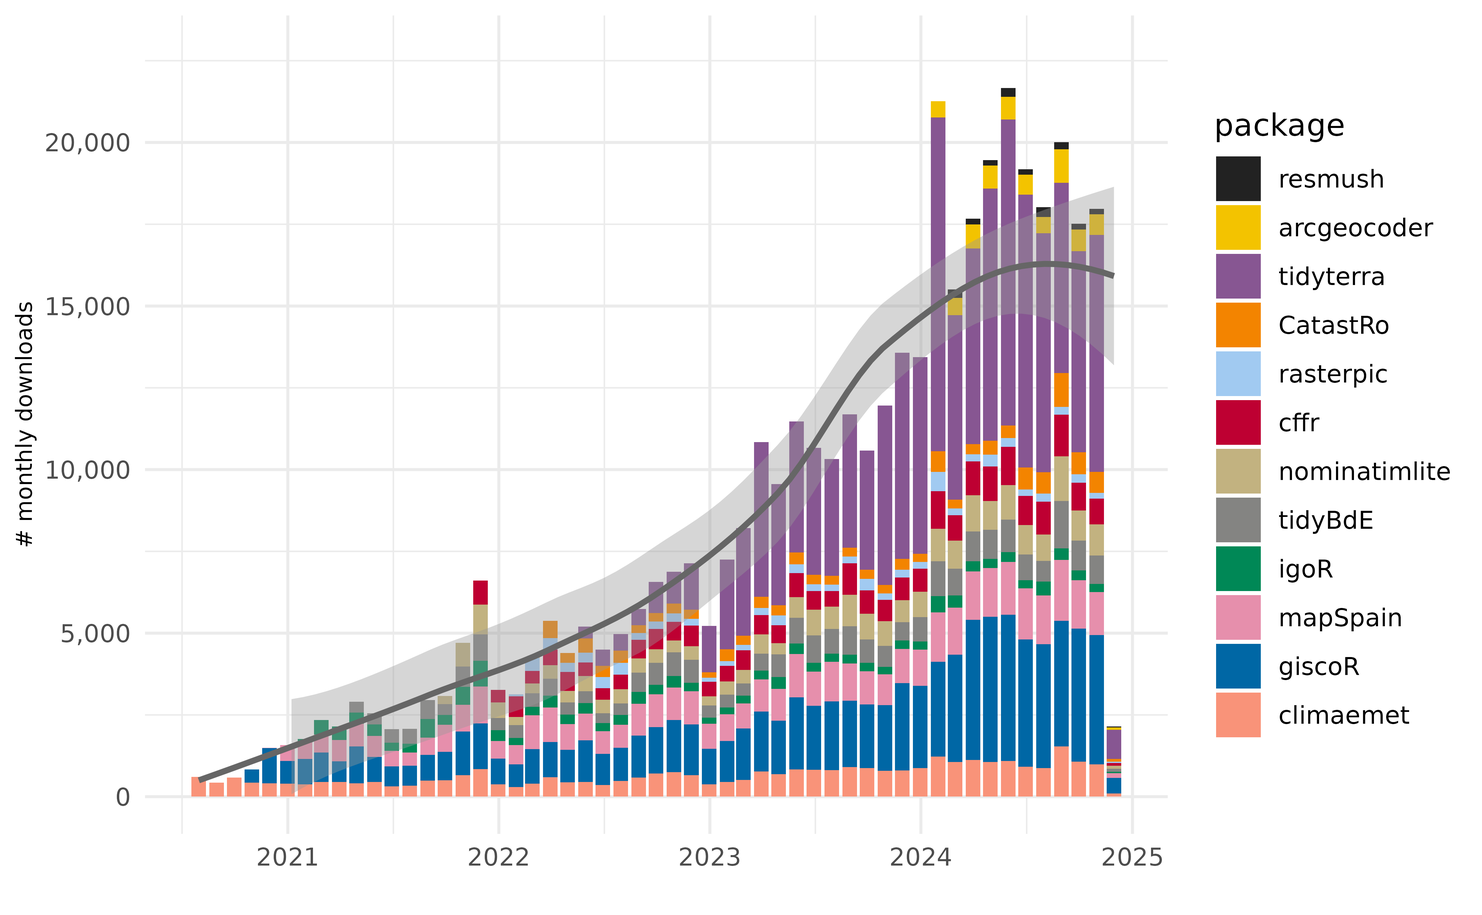
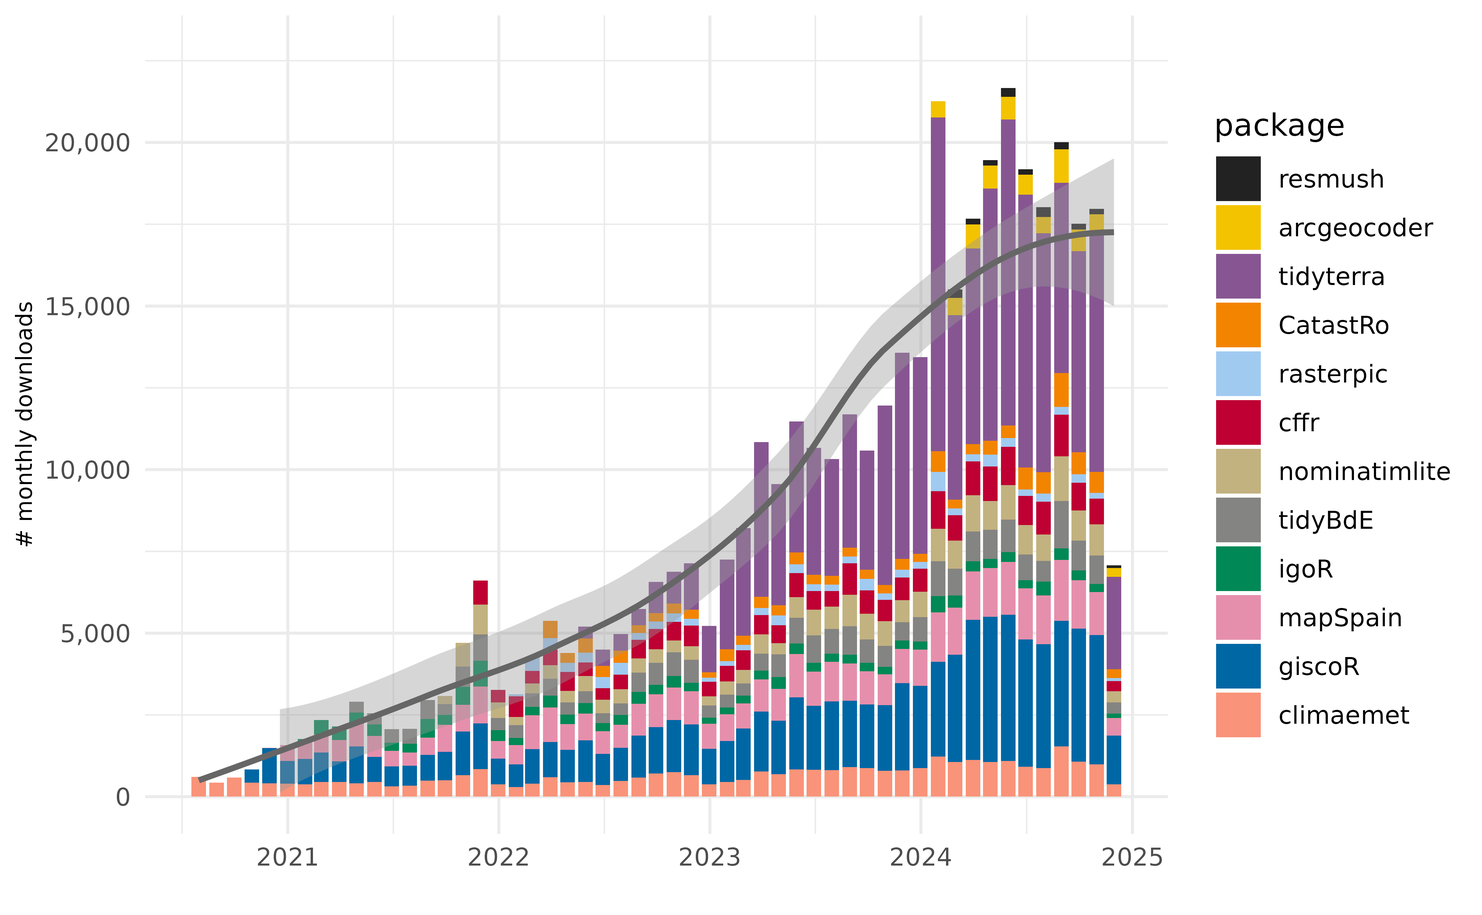
Built site for pkgdev@0.1.0.9060: 76b562e

diff --git a/articles/downloads.html b/articles/downloads.html
@@ -79,7 +79,7 @@
 
     
     
-<p><em>Updated: 06 Nov 2024</em></p>
+<p><em>Updated: 13 Nov 2024</em></p>
 <div class="section level2">
 <h2 id="on-cran">On CRAN<a class="anchor" aria-label="anchor" href="#on-cran"></a>
 </h2>
@@ -98,7 +98,7 @@
 <h3 id="download-data">Download data<a class="anchor" aria-label="anchor" href="#download-data"></a>
 </h3>
 <div class="reactable html-widget html-fill-item" id="cran-dwn" style="width:auto;height:auto;"></div>
-<script type="application/json" data-for="cran-dwn">{"x":{"tag":{"name":"Reactable","attribs":{"data":{"package":["tidyterra","giscoR","mapSpain","cffr","arcgeocoder","climaemet","nominatimlite","tidyBdE","CatastRo","igoR","rasterpic","resmush"],"on CRAN":["2022-05-24","2020-10-13","2020-11-30","2021-11-04","2024-01-15","2020-07-07","2021-09-16","2021-04-08","2022-02-28","2021-01-27","2022-01-27","2024-02-02"],"Latest CRAN Version":["2024-06-08","2024-08-28","2024-08-26","2024-08-16","2024-03-21","2024-08-28","2024-07-19","2024-08-26","2024-06-02","2024-02-05","2024-04-12","2024-07-19"],"daily avg.":[148,60.5,32.3,22.8,22.5,22,21.5,20.9,12.8,10.7,8.5,6.9],"last day":[394,137,27,21,12,17,22,11,10,7,8,6],"last week":[1470,772,274,162,153,219,196,194,148,64,54,51],"last month":[7026,3782,1231,725,602,920,906,784,590,255,177,178],"last year":[86028,43989,17297,11289,6669,12535,11268,10533,6280,3850,3196,1927]},"columns":[{"id":"package","name":"package","type":"character","minWidth":150,"vAlign":"center","footerStyle":{"fontWeight":"bold"},"cell":[{"name":"div","attribs":{},"children":[{"name":"div","attribs":{"style":{"fontWeight":"bold"}},"children":[{"name":"a","attribs":{"href":"https://CRAN.R-project.org/package=tidyterra","target":"_blank"},"children":["tidyterra"]}]},{"name":"div","attribs":{"style":{"fontSize":"75%"}},"children":[{"name":"img","attribs":{"src":"https://badges.cranchecks.info/worst/tidyterra.svg","alt":"tidyterra"},"children":[]}]}]},{"name":"div","attribs":{},"children":[{"name":"div","attribs":{"style":{"fontWeight":"bold"}},"children":[{"name":"a","attribs":{"href":"https://CRAN.R-project.org/package=giscoR","target":"_blank"},"children":["giscoR"]}]},{"name":"div","attribs":{"style":{"fontSize":"75%"}},"children":[{"name":"img","attribs":{"src":"https://badges.cranchecks.info/worst/giscoR.svg","alt":"giscoR"},"children":[]}]}]},{"name":"div","attribs":{},"children":[{"name":"div","attribs":{"style":{"fontWeight":"bold"}},"children":[{"name":"a","attribs":{"href":"https://CRAN.R-project.org/package=mapSpain","target":"_blank"},"children":["mapSpain"]}]},{"name":"div","attribs":{"style":{"fontSize":"75%"}},"children":[{"name":"img","attribs":{"src":"https://badges.cranchecks.info/worst/mapSpain.svg","alt":"mapSpain"},"children":[]}]}]},{"name":"div","attribs":{},"children":[{"name":"div","attribs":{"style":{"fontWeight":"bold"}},"children":[{"name":"a","attribs":{"href":"https://CRAN.R-project.org/package=cffr","target":"_blank"},"children":["cffr"]}]},{"name":"div","attribs":{"style":{"fontSize":"75%"}},"children":[{"name":"img","attribs":{"src":"https://badges.cranchecks.info/worst/cffr.svg","alt":"cffr"},"children":[]}]}]},{"name":"div","attribs":{},"children":[{"name":"div","attribs":{"style":{"fontWeight":"bold"}},"children":[{"name":"a","attribs":{"href":"https://CRAN.R-project.org/package=arcgeocoder","target":"_blank"},"children":["arcgeocoder"]}]},{"name":"div","attribs":{"style":{"fontSize":"75%"}},"children":[{"name":"img","attribs":{"src":"https://badges.cranchecks.info/worst/arcgeocoder.svg","alt":"arcgeocoder"},"children":[]}]}]},{"name":"div","attribs":{},"children":[{"name":"div","attribs":{"style":{"fontWeight":"bold"}},"children":[{"name":"a","attribs":{"href":"https://CRAN.R-project.org/package=climaemet","target":"_blank"},"children":["climaemet"]}]},{"name":"div","attribs":{"style":{"fontSize":"75%"}},"children":[{"name":"img","attribs":{"src":"https://badges.cranchecks.info/worst/climaemet.svg","alt":"climaemet"},"children":[]}]}]},{"name":"div","attribs":{},"children":[{"name":"div","attribs":{"style":{"fontWeight":"bold"}},"children":[{"name":"a","attribs":{"href":"https://CRAN.R-project.org/package=nominatimlite","target":"_blank"},"children":["nominatimlite"]}]},{"name":"div","attribs":{"style":{"fontSize":"75%"}},"children":[{"name":"img","attribs":{"src":"https://badges.cranchecks.info/worst/nominatimlite.svg","alt":"nominatimlite"},"children":[]}]}]},{"name":"div","attribs":{},"children":[{"name":"div","attribs":{"style":{"fontWeight":"bold"}},"children":[{"name":"a","attribs":{"href":"https://CRAN.R-project.org/package=tidyBdE","target":"_blank"},"children":["tidyBdE"]}]},{"name":"div","attribs":{"style":{"fontSize":"75%"}},"children":[{"name":"img","attribs":{"src":"https://badges.cranchecks.info/worst/tidyBdE.svg","alt":"tidyBdE"},"children":[]}]}]},{"name":"div","attribs":{},"children":[{"name":"div","attribs":{"style":{"fontWeight":"bold"}},"children":[{"name":"a","attribs":{"href":"https://CRAN.R-project.org/package=CatastRo","target":"_blank"},"children":["CatastRo"]}]},{"name":"div","attribs":{"style":{"fontSize":"75%"}},"children":[{"name":"img","attribs":{"src":"https://badges.cranchecks.info/worst/CatastRo.svg","alt":"CatastRo"},"children":[]}]}]},{"name":"div","attribs":{},"children":[{"name":"div","attribs":{"style":{"fontWeight":"bold"}},"children":[{"name":"a","attribs":{"href":"https://CRAN.R-project.org/package=igoR","target":"_blank"},"children":["igoR"]}]},{"name":"div","attribs":{"style":{"fontSize":"75%"}},"children":[{"name":"img","attribs":{"src":"https://badges.cranchecks.info/worst/igoR.svg","alt":"igoR"},"children":[]}]}]},{"name":"div","attribs":{},"children":[{"name":"div","attribs":{"style":{"fontWeight":"bold"}},"children":[{"name":"a","attribs":{"href":"https://CRAN.R-project.org/package=rasterpic","target":"_blank"},"children":["rasterpic"]}]},{"name":"div","attribs":{"style":{"fontSize":"75%"}},"children":[{"name":"img","attribs":{"src":"https://badges.cranchecks.info/worst/rasterpic.svg","alt":"rasterpic"},"children":[]}]}]},{"name":"div","attribs":{},"children":[{"name":"div","attribs":{"style":{"fontWeight":"bold"}},"children":[{"name":"a","attribs":{"href":"https://CRAN.R-project.org/package=resmush","target":"_blank"},"children":["resmush"]}]},{"name":"div","attribs":{"style":{"fontSize":"75%"}},"children":[{"name":"img","attribs":{"src":"https://badges.cranchecks.info/worst/resmush.svg","alt":"resmush"},"children":[]}]}]}],"rowHeader":true,"align":"left","sticky":"left"},{"id":"on CRAN","name":"on CRAN","type":"Date","minWidth":150,"vAlign":"center","footerStyle":{"fontWeight":"bold"}},{"id":"Latest CRAN Version","name":"Latest CRAN Version","type":"Date","minWidth":150,"vAlign":"center","footerStyle":{"fontWeight":"bold"}},{"id":"daily avg.","name":"daily avg.","type":"numeric","footer":"389,4","minWidth":150,"vAlign":"center","footerStyle":{"fontWeight":"bold"},"format":{"cell":{"separators":true},"aggregated":{"separators":true}}},{"id":"last day","name":"last day","type":"numeric","footer":"672","minWidth":150,"vAlign":"center","footerStyle":{"fontWeight":"bold"},"format":{"cell":{"separators":true},"aggregated":{"separators":true}}},{"id":"last week","name":"last week","type":"numeric","footer":"3.757","minWidth":150,"vAlign":"center","footerStyle":{"fontWeight":"bold"},"format":{"cell":{"separators":true},"aggregated":{"separators":true}}},{"id":"last month","name":"last month","type":"numeric","footer":"17.176","minWidth":150,"vAlign":"center","footerStyle":{"fontWeight":"bold"},"format":{"cell":{"separators":true},"aggregated":{"separators":true}}},{"id":"last year","name":"last year","type":"numeric","footer":"214.861","minWidth":150,"vAlign":"center","footerStyle":{"fontWeight":"bold"},"format":{"cell":{"separators":true},"aggregated":{"separators":true}}}],"filterable":true,"searchable":true,"showPageSizeOptions":true,"paginationType":"jump","striped":true,"elementId":"cran-dwn","dataKey":"2528fccbb251436e26b4ee69fa43b4ad"},"children":[]},"class":"reactR_markup"},"evals":[],"jsHooks":[]}</script>
+<script type="application/json" data-for="cran-dwn">{"x":{"tag":{"name":"Reactable","attribs":{"data":{"package":["tidyterra","giscoR","mapSpain","cffr","arcgeocoder","climaemet","nominatimlite","tidyBdE","CatastRo","igoR","rasterpic","resmush"],"on CRAN":["2022-05-24","2020-10-13","2020-11-30","2021-11-04","2024-01-15","2020-07-07","2021-09-16","2021-04-08","2022-02-28","2021-01-27","2022-01-27","2024-02-02"],"Latest CRAN Version":["2024-06-08","2024-08-28","2024-08-26","2024-08-16","2024-03-21","2024-08-28","2024-07-19","2024-08-26","2024-06-02","2024-02-05","2024-04-12","2024-07-19"],"daily avg.":[149,60.9,32.4,22.8,22.6,22.1,21.6,20.9,12.9,10.7,8.5,7],"last day":[274,187,100,41,49,63,61,62,48,16,5,13],"last week":[1577,787,309,207,138,211,182,180,142,76,48,51],"last month":[7385,3947,1371,803,665,980,931,870,653,292,205,207],"last year":[86636,44428,17476,11379,6858,12647,11375,10670,6399,3890,3206,1988]},"columns":[{"id":"package","name":"package","type":"character","minWidth":150,"vAlign":"center","footerStyle":{"fontWeight":"bold"},"cell":[{"name":"div","attribs":{},"children":[{"name":"div","attribs":{"style":{"fontWeight":"bold"}},"children":[{"name":"a","attribs":{"href":"https://CRAN.R-project.org/package=tidyterra","target":"_blank"},"children":["tidyterra"]}]},{"name":"div","attribs":{"style":{"fontSize":"75%"}},"children":[{"name":"img","attribs":{"src":"https://badges.cranchecks.info/worst/tidyterra.svg","alt":"tidyterra"},"children":[]}]}]},{"name":"div","attribs":{},"children":[{"name":"div","attribs":{"style":{"fontWeight":"bold"}},"children":[{"name":"a","attribs":{"href":"https://CRAN.R-project.org/package=giscoR","target":"_blank"},"children":["giscoR"]}]},{"name":"div","attribs":{"style":{"fontSize":"75%"}},"children":[{"name":"img","attribs":{"src":"https://badges.cranchecks.info/worst/giscoR.svg","alt":"giscoR"},"children":[]}]}]},{"name":"div","attribs":{},"children":[{"name":"div","attribs":{"style":{"fontWeight":"bold"}},"children":[{"name":"a","attribs":{"href":"https://CRAN.R-project.org/package=mapSpain","target":"_blank"},"children":["mapSpain"]}]},{"name":"div","attribs":{"style":{"fontSize":"75%"}},"children":[{"name":"img","attribs":{"src":"https://badges.cranchecks.info/worst/mapSpain.svg","alt":"mapSpain"},"children":[]}]}]},{"name":"div","attribs":{},"children":[{"name":"div","attribs":{"style":{"fontWeight":"bold"}},"children":[{"name":"a","attribs":{"href":"https://CRAN.R-project.org/package=cffr","target":"_blank"},"children":["cffr"]}]},{"name":"div","attribs":{"style":{"fontSize":"75%"}},"children":[{"name":"img","attribs":{"src":"https://badges.cranchecks.info/worst/cffr.svg","alt":"cffr"},"children":[]}]}]},{"name":"div","attribs":{},"children":[{"name":"div","attribs":{"style":{"fontWeight":"bold"}},"children":[{"name":"a","attribs":{"href":"https://CRAN.R-project.org/package=arcgeocoder","target":"_blank"},"children":["arcgeocoder"]}]},{"name":"div","attribs":{"style":{"fontSize":"75%"}},"children":[{"name":"img","attribs":{"src":"https://badges.cranchecks.info/worst/arcgeocoder.svg","alt":"arcgeocoder"},"children":[]}]}]},{"name":"div","attribs":{},"children":[{"name":"div","attribs":{"style":{"fontWeight":"bold"}},"children":[{"name":"a","attribs":{"href":"https://CRAN.R-project.org/package=climaemet","target":"_blank"},"children":["climaemet"]}]},{"name":"div","attribs":{"style":{"fontSize":"75%"}},"children":[{"name":"img","attribs":{"src":"https://badges.cranchecks.info/worst/climaemet.svg","alt":"climaemet"},"children":[]}]}]},{"name":"div","attribs":{},"children":[{"name":"div","attribs":{"style":{"fontWeight":"bold"}},"children":[{"name":"a","attribs":{"href":"https://CRAN.R-project.org/package=nominatimlite","target":"_blank"},"children":["nominatimlite"]}]},{"name":"div","attribs":{"style":{"fontSize":"75%"}},"children":[{"name":"img","attribs":{"src":"https://badges.cranchecks.info/worst/nominatimlite.svg","alt":"nominatimlite"},"children":[]}]}]},{"name":"div","attribs":{},"children":[{"name":"div","attribs":{"style":{"fontWeight":"bold"}},"children":[{"name":"a","attribs":{"href":"https://CRAN.R-project.org/package=tidyBdE","target":"_blank"},"children":["tidyBdE"]}]},{"name":"div","attribs":{"style":{"fontSize":"75%"}},"children":[{"name":"img","attribs":{"src":"https://badges.cranchecks.info/worst/tidyBdE.svg","alt":"tidyBdE"},"children":[]}]}]},{"name":"div","attribs":{},"children":[{"name":"div","attribs":{"style":{"fontWeight":"bold"}},"children":[{"name":"a","attribs":{"href":"https://CRAN.R-project.org/package=CatastRo","target":"_blank"},"children":["CatastRo"]}]},{"name":"div","attribs":{"style":{"fontSize":"75%"}},"children":[{"name":"img","attribs":{"src":"https://badges.cranchecks.info/worst/CatastRo.svg","alt":"CatastRo"},"children":[]}]}]},{"name":"div","attribs":{},"children":[{"name":"div","attribs":{"style":{"fontWeight":"bold"}},"children":[{"name":"a","attribs":{"href":"https://CRAN.R-project.org/package=igoR","target":"_blank"},"children":["igoR"]}]},{"name":"div","attribs":{"style":{"fontSize":"75%"}},"children":[{"name":"img","attribs":{"src":"https://badges.cranchecks.info/worst/igoR.svg","alt":"igoR"},"children":[]}]}]},{"name":"div","attribs":{},"children":[{"name":"div","attribs":{"style":{"fontWeight":"bold"}},"children":[{"name":"a","attribs":{"href":"https://CRAN.R-project.org/package=rasterpic","target":"_blank"},"children":["rasterpic"]}]},{"name":"div","attribs":{"style":{"fontSize":"75%"}},"children":[{"name":"img","attribs":{"src":"https://badges.cranchecks.info/worst/rasterpic.svg","alt":"rasterpic"},"children":[]}]}]},{"name":"div","attribs":{},"children":[{"name":"div","attribs":{"style":{"fontWeight":"bold"}},"children":[{"name":"a","attribs":{"href":"https://CRAN.R-project.org/package=resmush","target":"_blank"},"children":["resmush"]}]},{"name":"div","attribs":{"style":{"fontSize":"75%"}},"children":[{"name":"img","attribs":{"src":"https://badges.cranchecks.info/worst/resmush.svg","alt":"resmush"},"children":[]}]}]}],"rowHeader":true,"align":"left","sticky":"left"},{"id":"on CRAN","name":"on CRAN","type":"Date","minWidth":150,"vAlign":"center","footerStyle":{"fontWeight":"bold"}},{"id":"Latest CRAN Version","name":"Latest CRAN Version","type":"Date","minWidth":150,"vAlign":"center","footerStyle":{"fontWeight":"bold"}},{"id":"daily avg.","name":"daily avg.","type":"numeric","footer":"391,4","minWidth":150,"vAlign":"center","footerStyle":{"fontWeight":"bold"},"format":{"cell":{"separators":true},"aggregated":{"separators":true}}},{"id":"last day","name":"last day","type":"numeric","footer":"919","minWidth":150,"vAlign":"center","footerStyle":{"fontWeight":"bold"},"format":{"cell":{"separators":true},"aggregated":{"separators":true}}},{"id":"last week","name":"last week","type":"numeric","footer":"3.908","minWidth":150,"vAlign":"center","footerStyle":{"fontWeight":"bold"},"format":{"cell":{"separators":true},"aggregated":{"separators":true}}},{"id":"last month","name":"last month","type":"numeric","footer":"18.309","minWidth":150,"vAlign":"center","footerStyle":{"fontWeight":"bold"},"format":{"cell":{"separators":true},"aggregated":{"separators":true}}},{"id":"last year","name":"last year","type":"numeric","footer":"216.952","minWidth":150,"vAlign":"center","footerStyle":{"fontWeight":"bold"},"format":{"cell":{"separators":true},"aggregated":{"separators":true}}}],"filterable":true,"searchable":true,"showPageSizeOptions":true,"paginationType":"jump","striped":true,"elementId":"cran-dwn","dataKey":"40b60eeac2290aaf8197522417feb65a"},"children":[]},"class":"reactR_markup"},"evals":[],"jsHooks":[]}</script>
 </div>
 </div>
 <div class="section level2">
@@ -107,7 +107,7 @@
 <p>Downloads and data available of my packages from <a href="https://packagemanager.posit.co/client/#/" class="external-link">Posit Package
 Manager</a>.</p>
 <div class="reactable html-widget html-fill-item" id="posit-dwn" style="width:auto;height:auto;"></div>
-<script type="application/json" data-for="posit-dwn">{"x":{"tag":{"name":"Reactable","attribs":{"data":{"package":["tidyterra","giscoR","cffr","nominatimlite","mapSpain","resmush","arcgeocoder","climaemet","CatastRo","rasterpic","tidyBdE","igoR"],"Latest Version":["0.6.1","0.6.0","1.1.1","0.4.1","0.9.2","0.2.0","0.2.0","1.4.0","0.4.0","0.2.5","0.3.7","0.2.0"],"Version in CRAN":["2024-06-08","2024-08-28","2024-08-16","2024-07-19","2024-08-26","2024-07-19","2024-03-21","2024-08-28","2024-06-02","2024-04-12","2024-08-26","2024-02-05"],"Package Size":["1.87 Mb","1.26 Mb","0.58 Mb","0.12 Mb","2.34 Mb","0.8 Mb","0.34 Mb","0.77 Mb","2.21 Mb","0.98 Mb","0.24 Mb","0.99 Mb"],"Downloads (Last month)":[1265,573,528,194,119,58,45,39,36,34,31,27]},"columns":[{"id":"package","name":"package","type":"character","minWidth":150,"vAlign":"center","footerStyle":{"fontWeight":"bold"},"cell":[{"name":"div","attribs":{"style":{"fontWeight":"bold"}},"children":[{"name":"a","attribs":{"href":"https://packagemanager.posit.co/client/#/repos/cran/packages/tidyterra/overview?search=tidyterra#package-details","target":"_blank"},"children":["tidyterra"]}]},{"name":"div","attribs":{"style":{"fontWeight":"bold"}},"children":[{"name":"a","attribs":{"href":"https://packagemanager.posit.co/client/#/repos/cran/packages/giscoR/overview?search=giscoR#package-details","target":"_blank"},"children":["giscoR"]}]},{"name":"div","attribs":{"style":{"fontWeight":"bold"}},"children":[{"name":"a","attribs":{"href":"https://packagemanager.posit.co/client/#/repos/cran/packages/cffr/overview?search=cffr#package-details","target":"_blank"},"children":["cffr"]}]},{"name":"div","attribs":{"style":{"fontWeight":"bold"}},"children":[{"name":"a","attribs":{"href":"https://packagemanager.posit.co/client/#/repos/cran/packages/nominatimlite/overview?search=nominatimlite#package-details","target":"_blank"},"children":["nominatimlite"]}]},{"name":"div","attribs":{"style":{"fontWeight":"bold"}},"children":[{"name":"a","attribs":{"href":"https://packagemanager.posit.co/client/#/repos/cran/packages/mapSpain/overview?search=mapSpain#package-details","target":"_blank"},"children":["mapSpain"]}]},{"name":"div","attribs":{"style":{"fontWeight":"bold"}},"children":[{"name":"a","attribs":{"href":"https://packagemanager.posit.co/client/#/repos/cran/packages/resmush/overview?search=resmush#package-details","target":"_blank"},"children":["resmush"]}]},{"name":"div","attribs":{"style":{"fontWeight":"bold"}},"children":[{"name":"a","attribs":{"href":"https://packagemanager.posit.co/client/#/repos/cran/packages/arcgeocoder/overview?search=arcgeocoder#package-details","target":"_blank"},"children":["arcgeocoder"]}]},{"name":"div","attribs":{"style":{"fontWeight":"bold"}},"children":[{"name":"a","attribs":{"href":"https://packagemanager.posit.co/client/#/repos/cran/packages/climaemet/overview?search=climaemet#package-details","target":"_blank"},"children":["climaemet"]}]},{"name":"div","attribs":{"style":{"fontWeight":"bold"}},"children":[{"name":"a","attribs":{"href":"https://packagemanager.posit.co/client/#/repos/cran/packages/CatastRo/overview?search=CatastRo#package-details","target":"_blank"},"children":["CatastRo"]}]},{"name":"div","attribs":{"style":{"fontWeight":"bold"}},"children":[{"name":"a","attribs":{"href":"https://packagemanager.posit.co/client/#/repos/cran/packages/rasterpic/overview?search=rasterpic#package-details","target":"_blank"},"children":["rasterpic"]}]},{"name":"div","attribs":{"style":{"fontWeight":"bold"}},"children":[{"name":"a","attribs":{"href":"https://packagemanager.posit.co/client/#/repos/cran/packages/tidyBdE/overview?search=tidyBdE#package-details","target":"_blank"},"children":["tidyBdE"]}]},{"name":"div","attribs":{"style":{"fontWeight":"bold"}},"children":[{"name":"a","attribs":{"href":"https://packagemanager.posit.co/client/#/repos/cran/packages/igoR/overview?search=igoR#package-details","target":"_blank"},"children":["igoR"]}]}],"rowHeader":true,"align":"left","sticky":"left"},{"id":"Latest Version","name":"Latest Version","type":"character","minWidth":150,"vAlign":"center","footerStyle":{"fontWeight":"bold"}},{"id":"Version in CRAN","name":"Version in CRAN","type":"Date","minWidth":150,"vAlign":"center","footerStyle":{"fontWeight":"bold"}},{"id":"Package Size","name":"Package Size","type":"character","minWidth":150,"vAlign":"center","footerStyle":{"fontWeight":"bold"}},{"id":"Downloads (Last month)","name":"Downloads (Last month)","type":"numeric","footer":"2.949","minWidth":150,"vAlign":"center","footerStyle":{"fontWeight":"bold"},"format":{"cell":{"separators":true},"aggregated":{"separators":true}}}],"filterable":true,"searchable":true,"showPageSizeOptions":true,"paginationType":"jump","striped":true,"elementId":"posit-dwn","dataKey":"b4140fcdbc11a38ccfc6063a9ceb6bc9"},"children":[]},"class":"reactR_markup"},"evals":[],"jsHooks":[]}</script>
+<script type="application/json" data-for="posit-dwn">{"x":{"tag":{"name":"Reactable","attribs":{"data":{"package":["tidyterra","cffr","giscoR","nominatimlite","mapSpain","resmush","arcgeocoder","climaemet","tidyBdE","CatastRo","rasterpic","igoR"],"Latest Version":["0.6.1","1.1.1","0.6.0","0.4.1","0.9.2","0.2.0","0.2.0","1.4.0","0.3.7","0.4.0","0.2.5","0.2.0"],"Version in CRAN":["2024-06-08","2024-08-16","2024-08-28","2024-07-19","2024-08-26","2024-07-19","2024-03-21","2024-08-28","2024-08-26","2024-06-02","2024-04-12","2024-02-05"],"Package Size":["1.87 Mb","0.58 Mb","1.26 Mb","0.12 Mb","2.34 Mb","0.8 Mb","0.34 Mb","0.77 Mb","0.24 Mb","2.21 Mb","0.98 Mb","0.99 Mb"],"Downloads (Last month)":[1272,587,551,189,108,57,42,34,30,30,30,24]},"columns":[{"id":"package","name":"package","type":"character","minWidth":150,"vAlign":"center","footerStyle":{"fontWeight":"bold"},"cell":[{"name":"div","attribs":{"style":{"fontWeight":"bold"}},"children":[{"name":"a","attribs":{"href":"https://packagemanager.posit.co/client/#/repos/cran/packages/tidyterra/overview?search=tidyterra#package-details","target":"_blank"},"children":["tidyterra"]}]},{"name":"div","attribs":{"style":{"fontWeight":"bold"}},"children":[{"name":"a","attribs":{"href":"https://packagemanager.posit.co/client/#/repos/cran/packages/cffr/overview?search=cffr#package-details","target":"_blank"},"children":["cffr"]}]},{"name":"div","attribs":{"style":{"fontWeight":"bold"}},"children":[{"name":"a","attribs":{"href":"https://packagemanager.posit.co/client/#/repos/cran/packages/giscoR/overview?search=giscoR#package-details","target":"_blank"},"children":["giscoR"]}]},{"name":"div","attribs":{"style":{"fontWeight":"bold"}},"children":[{"name":"a","attribs":{"href":"https://packagemanager.posit.co/client/#/repos/cran/packages/nominatimlite/overview?search=nominatimlite#package-details","target":"_blank"},"children":["nominatimlite"]}]},{"name":"div","attribs":{"style":{"fontWeight":"bold"}},"children":[{"name":"a","attribs":{"href":"https://packagemanager.posit.co/client/#/repos/cran/packages/mapSpain/overview?search=mapSpain#package-details","target":"_blank"},"children":["mapSpain"]}]},{"name":"div","attribs":{"style":{"fontWeight":"bold"}},"children":[{"name":"a","attribs":{"href":"https://packagemanager.posit.co/client/#/repos/cran/packages/resmush/overview?search=resmush#package-details","target":"_blank"},"children":["resmush"]}]},{"name":"div","attribs":{"style":{"fontWeight":"bold"}},"children":[{"name":"a","attribs":{"href":"https://packagemanager.posit.co/client/#/repos/cran/packages/arcgeocoder/overview?search=arcgeocoder#package-details","target":"_blank"},"children":["arcgeocoder"]}]},{"name":"div","attribs":{"style":{"fontWeight":"bold"}},"children":[{"name":"a","attribs":{"href":"https://packagemanager.posit.co/client/#/repos/cran/packages/climaemet/overview?search=climaemet#package-details","target":"_blank"},"children":["climaemet"]}]},{"name":"div","attribs":{"style":{"fontWeight":"bold"}},"children":[{"name":"a","attribs":{"href":"https://packagemanager.posit.co/client/#/repos/cran/packages/tidyBdE/overview?search=tidyBdE#package-details","target":"_blank"},"children":["tidyBdE"]}]},{"name":"div","attribs":{"style":{"fontWeight":"bold"}},"children":[{"name":"a","attribs":{"href":"https://packagemanager.posit.co/client/#/repos/cran/packages/CatastRo/overview?search=CatastRo#package-details","target":"_blank"},"children":["CatastRo"]}]},{"name":"div","attribs":{"style":{"fontWeight":"bold"}},"children":[{"name":"a","attribs":{"href":"https://packagemanager.posit.co/client/#/repos/cran/packages/rasterpic/overview?search=rasterpic#package-details","target":"_blank"},"children":["rasterpic"]}]},{"name":"div","attribs":{"style":{"fontWeight":"bold"}},"children":[{"name":"a","attribs":{"href":"https://packagemanager.posit.co/client/#/repos/cran/packages/igoR/overview?search=igoR#package-details","target":"_blank"},"children":["igoR"]}]}],"rowHeader":true,"align":"left","sticky":"left"},{"id":"Latest Version","name":"Latest Version","type":"character","minWidth":150,"vAlign":"center","footerStyle":{"fontWeight":"bold"}},{"id":"Version in CRAN","name":"Version in CRAN","type":"Date","minWidth":150,"vAlign":"center","footerStyle":{"fontWeight":"bold"}},{"id":"Package Size","name":"Package Size","type":"character","minWidth":150,"vAlign":"center","footerStyle":{"fontWeight":"bold"}},{"id":"Downloads (Last month)","name":"Downloads (Last month)","type":"numeric","footer":"2.954","minWidth":150,"vAlign":"center","footerStyle":{"fontWeight":"bold"},"format":{"cell":{"separators":true},"aggregated":{"separators":true}}}],"filterable":true,"searchable":true,"showPageSizeOptions":true,"paginationType":"jump","striped":true,"elementId":"posit-dwn","dataKey":"a3413eaa88d9ea6d6a0d8764971a8c3a"},"children":[]},"class":"reactR_markup"},"evals":[],"jsHooks":[]}</script>
 </div>
   </main><aside class="col-md-3"><nav id="toc" aria-label="Table of contents"><h2>On this page</h2>
     </nav></aside>
